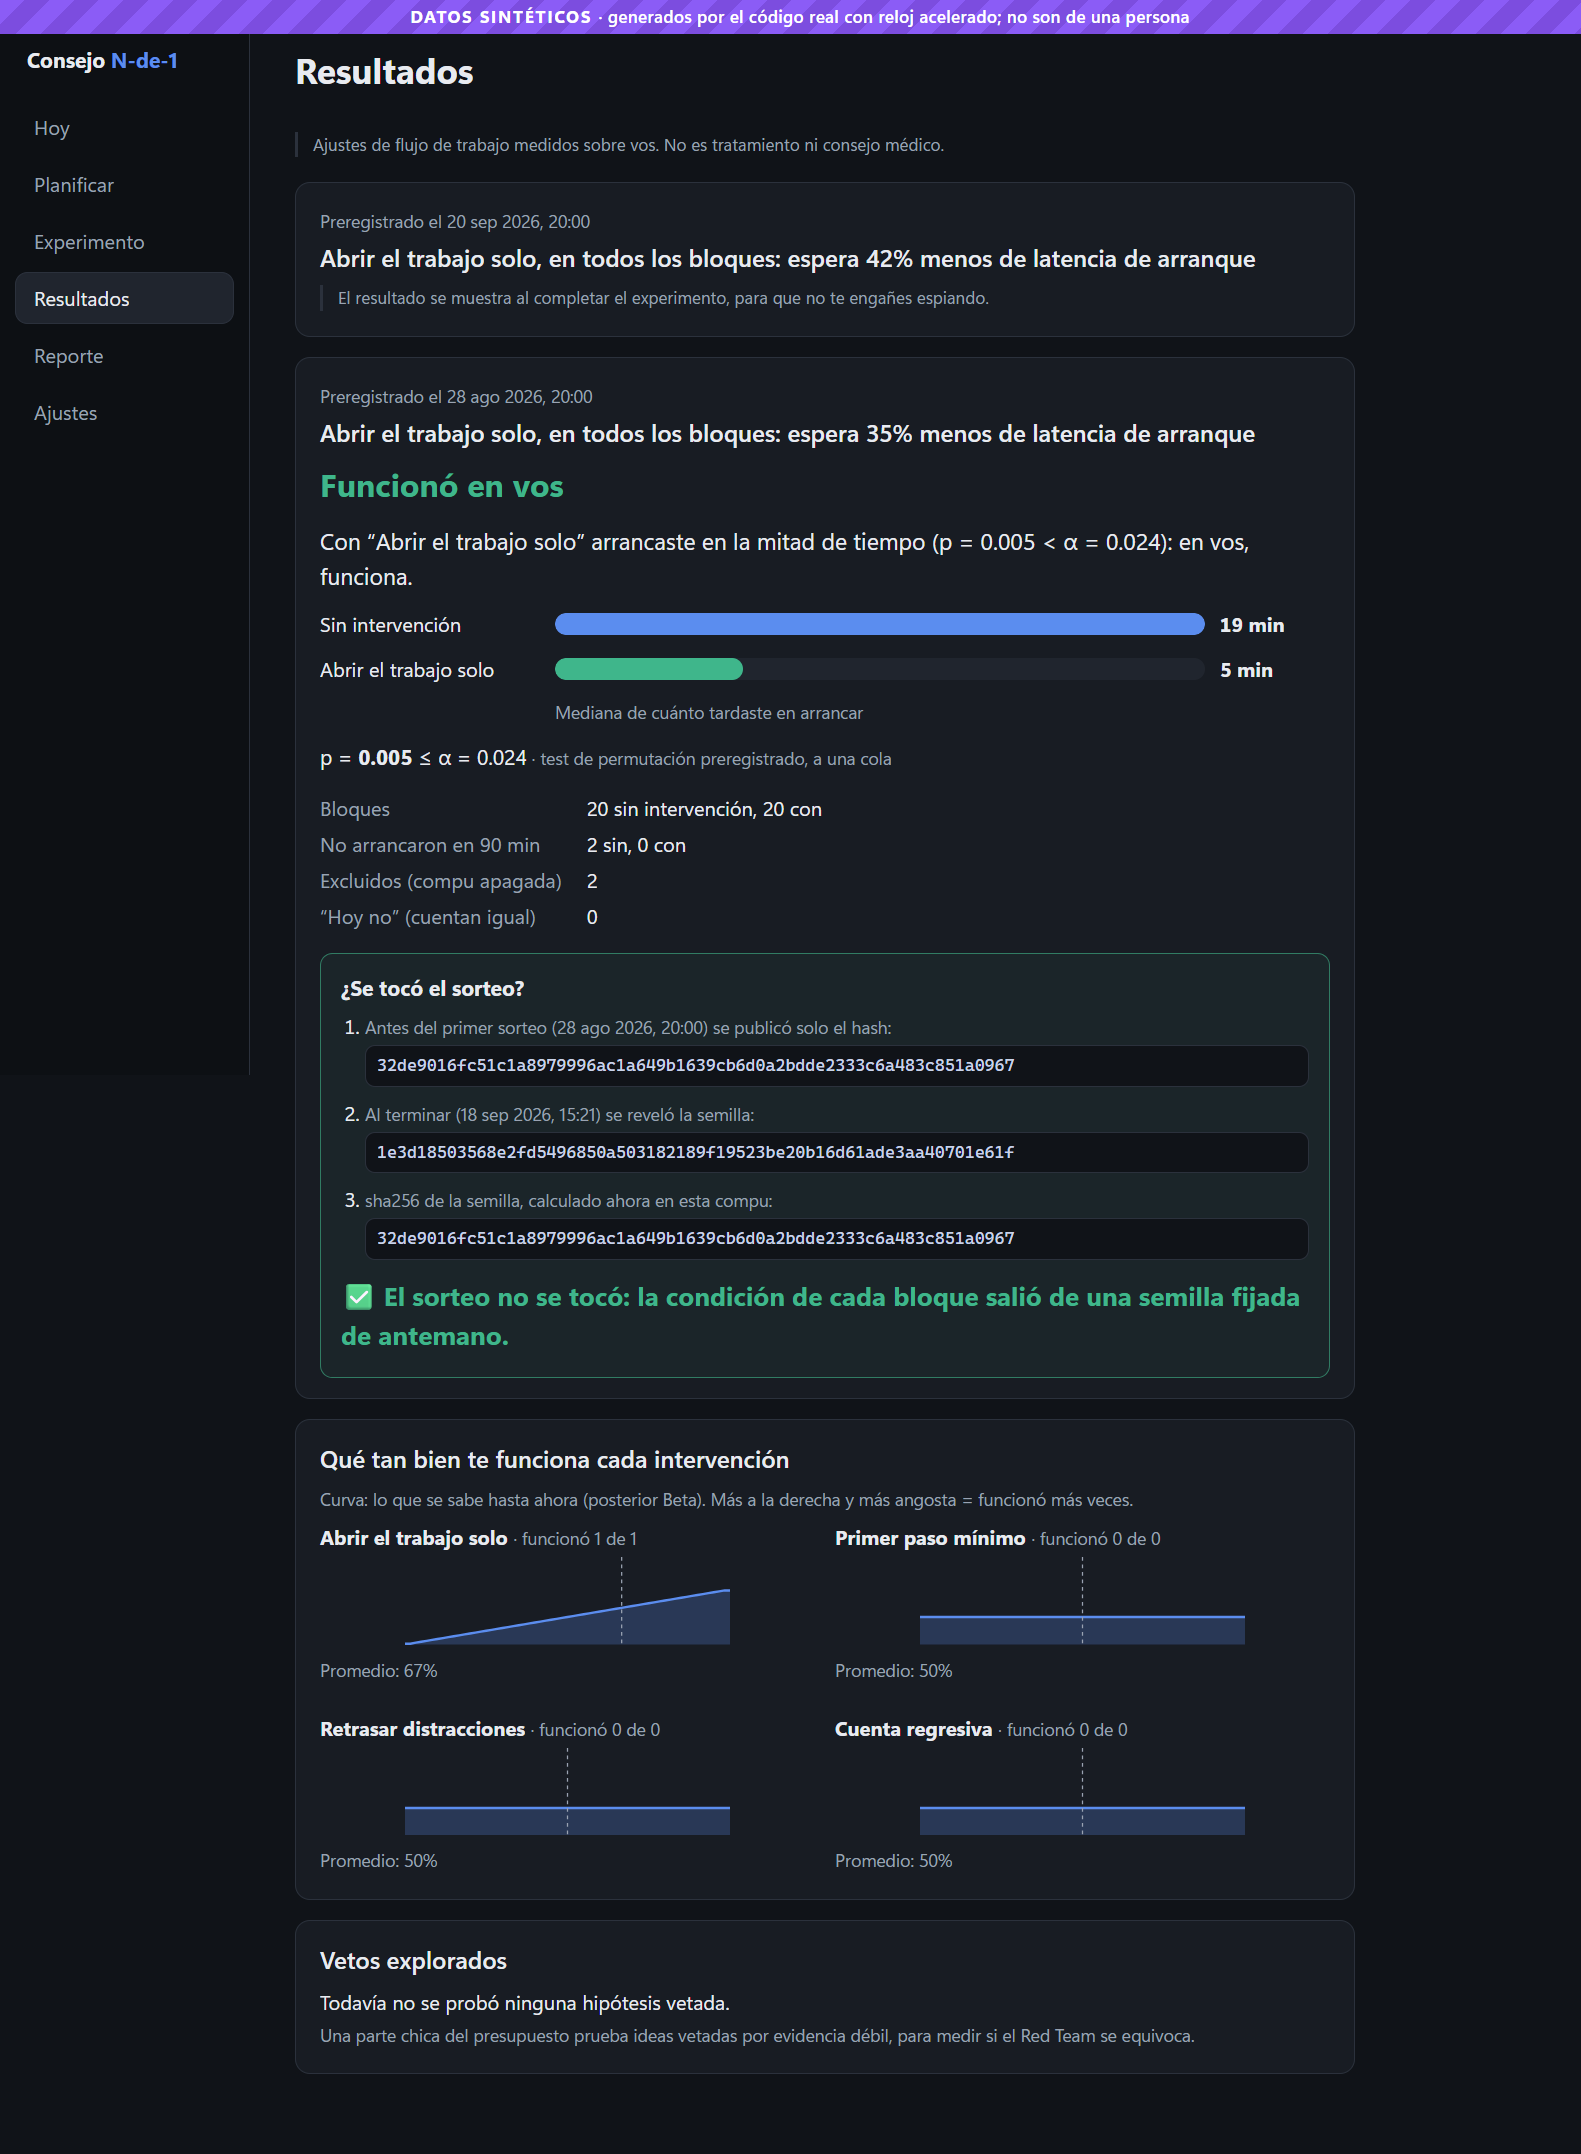
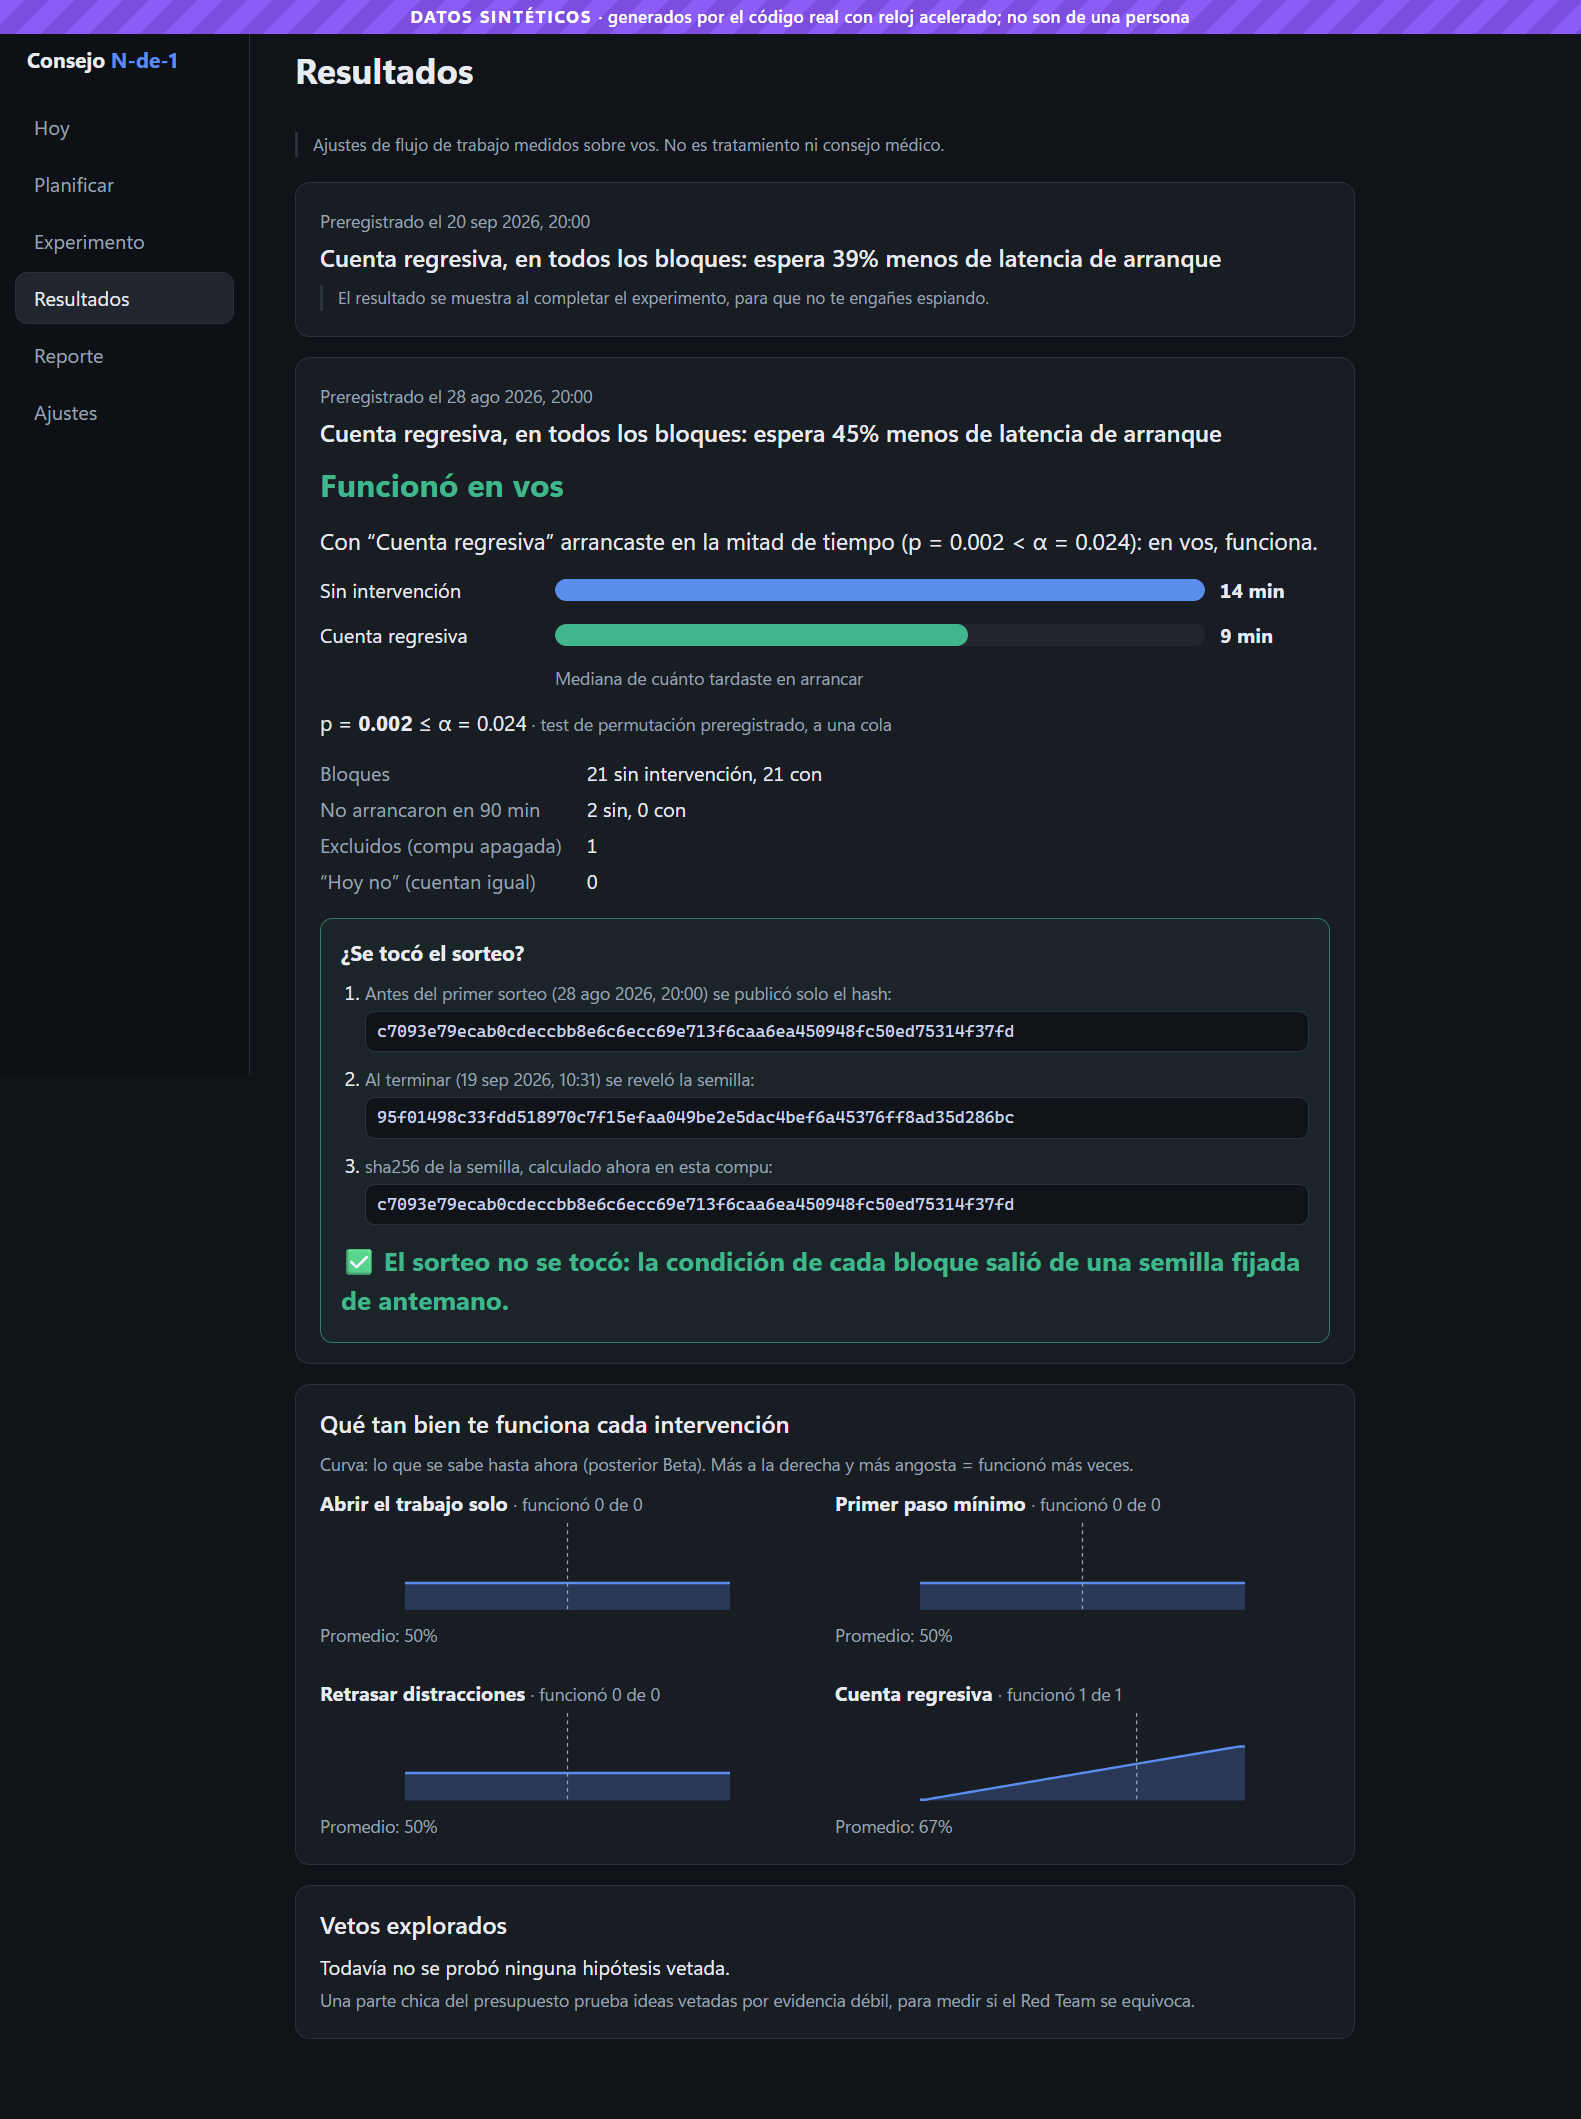
docs: resultados de la demo con el consejo real, estudio de potencia y capturas
- demo-data: --seed 11 --llm cache. cuenta_regresiva apoyada (14.2 → 9.0
  min, ratio 0.53, p=0.002 < α); en la segunda reunión el verificador veta
  3 hipótesis de Qwen con cifras inventadas.
- Estudio de potencia: 9 de 10 semillas detectan el efecto ×0.5; 0 de 5
  falsos descubrimientos sin efecto. La semilla 7 (p=0.038 > α=0.024)
  queda contada como el caso que el sistema no se autoengaña.
- Capturas del consejo y de la verificación de la semilla en el README;
  guion, video y entrega actualizados.

diff --git a/README.md b/README.md
@@ -24,7 +24,13 @@ Declarás tus bloques de trabajo. Un consejo de agentes **locales** hace el rest
 nunca salen de un SQLite local y se borran a los 14 días. El journal no guarda títulos ni textos, así que el reporte
 se puede compartir con un profesional.
 
-<!-- capturas: docs/hackathon/img/ (las genera `npm run shots` en app/) -->
+| El consejo delibera | El sorteo se verifica |
+|---|---|
+| ![Consejo](docs/hackathon/img/consejo.png) | ![Resultados](docs/hackathon/img/resultados.png) |
+
+*Capturas sobre datos SINTÉTICOS (`npm run shots`). A la izquierda, el verificador veta 3 hipótesis de Qwen por
+cifras inventadas ("47% de censura en lectura": era 0%). A la derecha, la semilla revelada coincide con el hash
+publicado antes del primer sorteo.*
 
 ## Qué lo hace distinto
 Búsqueda del 2026-09-26, sin pretensión de exhaustividad:
@@ -41,13 +47,26 @@ Un experimento real tarda semanas. `python -m core.simulate` corre **el código 
 de bloques con tramos de actividad sintéticos y un **efecto verdadero conocido** (con la intervención se arranca en la
 mitad de tiempo).
 
+**Corrida de la demo** (`--seed 11 --llm cache`, consejo real con Qwen y Granite):
+
 | | Resultado |
 |---|---|
-| Línea base | 14 bloques de control; el consejo se reúne |
-| Preregistro | `abrir_trabajo`, N = 20 por brazo, α = 0.024 (alpha-investing), semilla comprometida |
-| Resolución | latencia mediana **18.7 → 5.4 min**, ratio geométrico **0.50** (el efecto verdadero era 0.5), **p = 0.005 < α** |
-| Sin efecto (control del simulador) | **no apoyado**: no hay falso descubrimiento |
-| Journal | 268 eventos, `verify` ok; cada asignación coincide con la semilla revelada |
+| Línea base | 1 semana de bloques de control |
+| Consejo | el Scout propone 3 hipótesis y las 3 pasan; se elige `cuenta_regresiva`, la de menor fricción |
+| Preregistro | N = 21 por brazo (todo el presupuesto de 3 semanas), α = 0.024 (alpha-investing), hash de la semilla |
+| Resolución | latencia mediana **14.2 → 9.0 min**, ratio geométrico **0.53** (el efecto verdadero era 0.5), **p = 0.002 < α** |
+| Segunda reunión | el verificador veta las 3 hipótesis nuevas de Qwen por cifras inventadas; entra el respaldo |
+| Journal | 270 eventos, `verify` ok; cada asignación coincide con la semilla revelada |
+
+**Estudio de potencia** (`--llm off`, semillas 1 a 10, el mismo código):
+
+| Efecto verdadero | Apoyado |
+|---|---|
+| ×0.5 (con la intervención, la mitad de tiempo) | **9 de 10** (se diseñó para ≥ 80%) |
+| ×1.0 (sin efecto) | **0 de 5** (ningún falso descubrimiento) |
+
+La semilla 7 es el caso que falla con efecto real: la mediana baja de 18 a 6 min, p = 0.038, pero α es 0.024 y el
+veredicto preregistrado dice "no apoyado". El sistema no se autoengaña para darte una buena noticia.
 
 **El simulador encontró un error nuestro.** El primer test preregistrado comparaba medianas agrupadas. Con mañanas
 lentas y tardes rápidas la latencia es bimodal, y la mediana caía en el hueco entre los dos grupos: un efecto
@@ -60,8 +79,12 @@ simulador y no tu primer experimento real.
   `data/cassettes/` y se reproducen en los tests.
 - **Sin restricción:** el Scout pidió efectos realistas (−30%), y el Red Team las vetó por potencia (12–18 semanas).
   Ahora el Scout recibe el **efecto mínimo detectable** como restricción.
-- **El verificador atrapó a Qwen inventando** "50% de bloques censurados" (era 4%): la cifra existía, pero como
-  porcentaje de otra cosa.
+- **El verificador atrapó a Qwen inventando:** "50% de bloques censurados" (era 4%) y "47% de censura en lectura"
+  (era 0%). La cifra a veces existía, pero como porcentaje de otra cosa: por eso cada cifra se ata a su unidad y
+  a su tema.
+- **Otro error nuestro:** el Red Team dimensionaba N con el efecto que prometía el Scout. Con un 0.45 optimista salió
+  N = 6 y un efecto real no llegó a p < α. Ahora el efecto propuesto solo decide si la hipótesis es testeable, y N usa
+  todo el presupuesto de semanas: el tamaño no sale de la confianza del modelo.
 
 ## Probarlo
 Requisitos: Windows 10/11, Python 3.11, Node 20 o superior, [Ollama](https://ollama.com) (opcional; sin él, el
@@ -72,8 +95,9 @@ python -m venv .venv
 .venv\Scripts\python -m pip install -e ".[dev]"
 ollama pull qwen3.5:4b; ollama pull granite4.2:8b          # opcional
 
-# 5 semanas simuladas (DATOS SINTÉTICOS) y la app encima
-.venv\Scripts\python -m core.simulate --out demo-data --weeks 5 --seed 7
+# 5 semanas simuladas (DATOS SINTÉTICOS) y la app encima. Con Ollama, el consejo es real (--llm cache);
+# sin Ollama usá --llm off (respaldo determinista, otros resultados)
+.venv\Scripts\python -m core.simulate --out demo-data --weeks 5 --seed 11 --llm cache
 cd app; npm install; npm run demo
 
 # demo en vivo: un bloque que empieza en 2 minutos con WhatsApp/YouTube minimizados

diff --git a/docs/hackathon/demo.md b/docs/hackathon/demo.md
@@ -5,7 +5,7 @@
 cd C:\Users\HP\Documents\n-de-1
 ollama ps                                   # Ollama arriba (si no: "ollama serve" o abrir la app de Ollama)
 Remove-Item -Recurse -Force demo-live -ErrorAction SilentlyContinue
-.venv\Scripts\python -m core.simulate --out demo-data --weeks 5 --seed 7    # solo si demo-data no existe
+.venv\Scripts\python -m core.simulate --out demo-data --weeks 5 --seed 11 --llm cache   # solo si demo-data no existe (~5 min)
 ```
 - Abrí **WhatsApp de escritorio** y **YouTube en Chrome** (con un video pausado). Tienen que verse en la barra de
   tareas.
@@ -43,7 +43,7 @@ Cerrá la app. `npm run demo` (sobre `demo-data`) → **Experimento** → **Reun
   > porque necesitaría 5 semanas."
 - Si hay un ❌ del verificador:
   > "El modelo inventó una cifra y lo atrapamos."
-- Si no lo hay, contalo con la corrida real del README: Qwen dijo "50% censurados" y era 4%.
+- En `demo-data` ya se ve en la segunda reunión: Qwen dijo "47% de censura en lectura" y era 0%.
 - El preregistro muestra el hash de la semilla.
   > "Esto se sella **antes** del primer sorteo."
 
@@ -52,12 +52,12 @@ Eso también es parte del diseño.
 
 ## 4. Resultados de 5 semanas simuladas (40 s)
 **Resultados** → el experimento resuelto:
-- latencia mediana **18.7 → 5.4 min**, ratio **0.50**, **p = 0.005 < α = 0.024**;
+- `cuenta_regresiva`: latencia mediana **14.2 → 9.0 min**, ratio **0.53**, **p = 0.002 < α = 0.024**;
 - **"✅ el sorteo no se tocó"**: sha256 de la semilla revelada igual al compromiso, calculado en tu navegador;
 - el ledger y el veto regret.
 
-> "Estas 5 semanas las generó el **código real** con reloj acelerado y un efecto verdadero de 0.5. Recuperamos 0.50.
-> Y con efecto cero, no descubre nada. Además el simulador nos encontró un error: nuestro primer test perdía el efecto
+> "Estas 5 semanas las generó el **código real** con reloj acelerado y un efecto verdadero de 0.5. Recuperamos 0.53.
+> En 10 semillas lo detecta 9 veces, y con efecto cero no descubre nada. Además el simulador nos encontró un error: nuestro primer test perdía el efecto
 > al mezclar mañanas y tardes. Lo cambiamos antes de usarlo con una persona real."
 
 ## 5. Privacidad y límites (20 s)

diff --git a/docs/hackathon/video.md b/docs/hackathon/video.md
@@ -8,7 +8,7 @@ Grabar con OBS o la Xbox Game Bar (Win+Alt+R), 1080p, voz en off. Pantalla limpi
 | 0:15–0:35 | Diagrama del README (consejo) | "Consejo N-de-1 es un consejo de agentes locales. Un Scout propone una hipótesis sobre tus datos, un verificador rechaza cifras inventadas y un Red Team de otra familia de modelo la ataca con estadística que tiene poder de veto." |
 | 0:35–1:05 | `demo_live`: overlay "arrancás en…", WhatsApp y YouTube minimizándose y re-minimizándose, salida de emergencia | "Después, la compu ejecuta el experimento. Cada bloque se sortea y, si le toca, se aplica la intervención: acá, retrasar las distracciones hasta que arranques. Nunca se cierra nada, y la salida de emergencia siempre está." |
 | 1:05–1:35 | "Reunir al consejo": tarjetas con ✅/❌ y el preregistro con el hash | "Qwen y Granite corren en esta GPU de 6 GB. El modelo propone, pero no puede aprobar lo que la estadística rechaza. La hipótesis, el test y el hash de la semilla se sellan en un journal con cadena de hashes antes del primer sorteo." |
-| 1:35–2:05 | Resultados: 18.7 → 5.4 min, p < α, "✅ el sorteo no se tocó" | "Cinco semanas simuladas con el código real y un efecto verdadero de 0.5: el test recupera 0.50. Con efecto cero, no descubre nada. Y el simulador nos encontró un error estadístico propio antes de usarlo con una persona." |
+| 1:35–2:05 | Resultados: 14.2 → 9.0 min, p < α, "✅ el sorteo no se tocó" | "Cinco semanas simuladas con el código real y un efecto verdadero de 0.5: el test recupera 0.53, lo detecta en 9 de cada 10 simulaciones y con efecto cero no descubre nada. Y el simulador nos encontró un error estadístico propio antes de usarlo con una persona." |
 | 2:05–2:20 | Reporte sin textos privados | "Todo es local. El journal no guarda títulos ni textos: el reporte se puede compartir con un profesional. No es consejo médico: es ciencia sobre una sola persona." |
 | 2:20–2:30 | Logo o título + URL del repo | "Consejo N-de-1. Tu compu hace ciencia sobre cómo arrancás." |
 

diff --git a/docs/coordinacion/frente-0.md b/docs/coordinacion/frente-0.md
@@ -57,3 +57,14 @@ Adelantado mientras B1 trabaja. Todo va en archivos que el brief de B1 le prohí
 - Ya no quedan stubs 501. El test de stubs se reemplazó por `test_full_app_plans_confirms_runs_and_aborts_a_block_end_to_end`, que corre por HTTP con los 4 frentes montados.
 - `tests/conftest.py` fija `NDE1_NO_DESKTOP=1`: ningún test minimiza ventanas reales ni abre archivos. Solo `test_b2_windows.py` usa `Win32Ops`, y sobre su propia ventana Tk.
 - **La línea base real puede empezar:** planificar y confirmar bloques desde la app. Sin experimento activo, todo bloque es control y solo se mide.
+
+## Hackathon (2026-09-27)
+- **T0:** `contracts@1.1` (`Health.data_label`), interfaz `SynthDay` con `latency_scale`, UWP (`ApplicationFrameHost.exe`) y patrones de WhatsApp, Discord y Telegram en los defaults, y briefs `*-hackathon.md`.
+- **Merges:** A (`synth.py`), B (`demo_live.py`, WhatsApp/YouTube *cloaked*, overlay sobre pantalla completa; tocó `app/electron/main.ts` de D con un arreglo aceptado) y D (franja sintética, `npm run demo`, `demo:live` y `shots`, consejo legible, prueba de la semilla).
+- **`core/simulate` + `test_full_cycle.py`.** El simulador destapó dos defectos, los dos corregidos:
+  1. la mediana agrupada (@1) diluía el efecto al mezclar mañanas y tardes; se reemplazó por el test @2 estratificado;
+  2. N salía del efecto que prometía el Scout; ahora usa todo el presupuesto de semanas.
+- **Verificador sin falsos positivos:** acepta fracciones, complementos del mismo tema y las constantes de las reglas. Sigue atrapando invenciones reales ("47% de censura" cuando era 0%).
+- **Estudio de potencia (semillas 1 a 10):** 9 de 10 apoyados con efecto ×0.5; ningún apoyado sin efecto.
+- **`demo-data`:** `--seed 11 --llm cache`, apoyado, con el consejo real. README público, capturas y guiones en `docs/hackathon/`.
+- **Pendiente:** `check_private.py` (A), el ensayo en vivo con WhatsApp y YouTube abiertos (Josué), el video, y hacer público el repo (Josué).

diff --git a/docs/hackathon/entrega.md b/docs/hackathon/entrega.md
@@ -34,10 +34,10 @@ N-de-1 (una sola persona, aleatorizado), pero nadie lo hace a mano durante seman
 
 ## Desafíos y aprendizajes
 - **El simulador encontró un error nuestro:** la mediana agrupada perdía el efecto cuando se mezclan mañanas y
-  tardes (un efecto de ×0.5 se medía como 0.88). Lo reemplazamos por un test estratificado; ahora recupera 0.50 y no
-  da falsos positivos.
+  tardes (un efecto de ×0.5 se medía como 0.88). Lo reemplazamos por un test estratificado: ahora recupera ~0.5,
+  lo detecta en 9 de 10 semillas y no da falsos positivos sin efecto.
 - **LLM chico y local:** Qwen con razonamiento activado devolvía respuestas vacías, el prompt no entraba en 4096
-  tokens y el modelo inventó un "50%". Por eso el veto es determinista y el verificador ata cada cifra a su unidad y
+  tokens y el modelo inventó porcentajes ("47% de censura" cuando era 0%). Por eso el veto es determinista y el verificador ata cada cifra a su unidad y
   tema.
 - **Un N-de-1 tiene poca potencia:** con 2 bloques por día, en 3 semanas solo se detectan efectos grandes. El Scout
   recibe ese límite como restricción.
